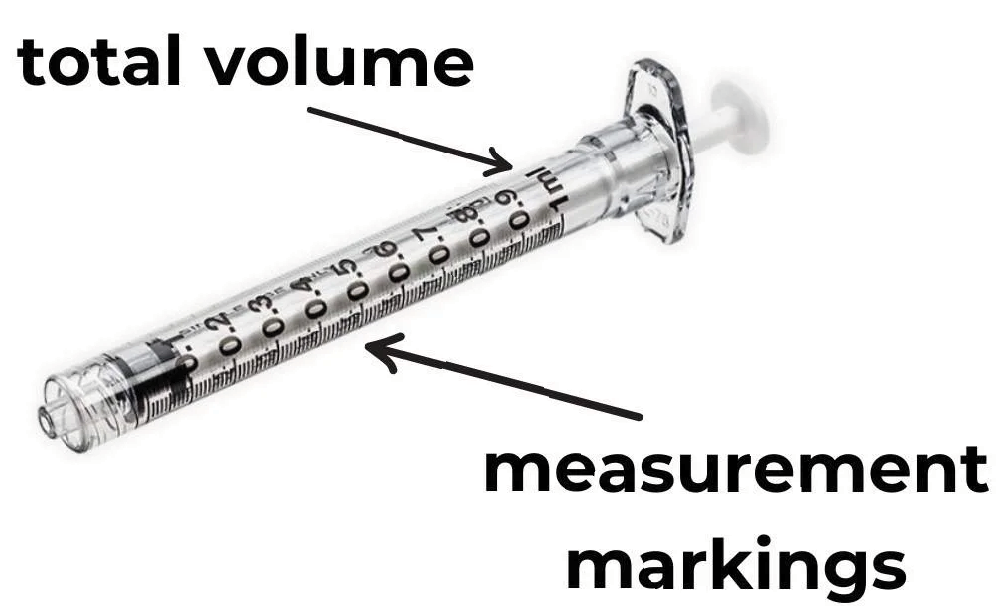
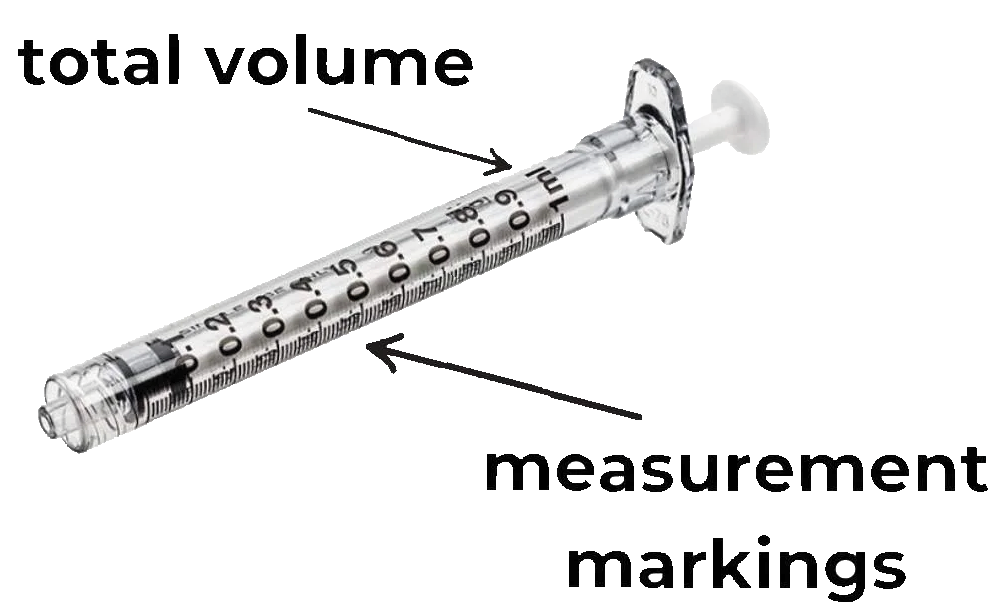
stylistic changes

diff --git a/posts/top-6-injection-mistakes/index.html b/posts/top-6-injection-mistakes/index.html
@@ -99,7 +99,7 @@
             </nav>
                 <div class="do-not-print">
                 <p>
-                [<a href="top-6-injection-mistakes-foldable.pdf" target="_blank">printable foldable PDF version</a>][<a href="top-6-injection-mistakes-web.pdf" target="_blank">web PDF version</a>]
+                <span class="center">[<a href="top-6-injection-mistakes-foldable.pdf" target="_blank">printable foldable PDF version</a>][<a href="top-6-injection-mistakes-web.pdf" target="_blank">web PDF version</a>]</span>
                 </p>
                 </div>
                 <hr />
@@ -185,7 +185,7 @@
                 <p><span class="large-font">In those settings, medication vials get used up very quickly and it makes sense to use a large needle to prioritize drawing speed. But for trans people who use one vial for a span of months or even years, we need to take better care of our vial stoppers than that! A busted stopper compromises your vial’s ability to stay sterile.</span></p>
                 </div>
                 <div class="row">
-                <p><span class="large-font right">Studies of how many punctures a vial can withstand have found that needles of 23G or smaller cause much less damage than larger needles.<a href="#fn2" class="footnote-ref" id="fnref2" role="doc-noteref"><sup>2</sup></a></span></p>
+                <p><span class="large-font right">Studies of how many punctures a vial can withstand have found that needles of 22G or smaller cause much less damage than larger needles.<a href="#fn2" class="footnote-ref" id="fnref2" role="doc-noteref"><sup>2</sup></a></span></p>
                 <div class="mark-host" style="--img-w: 15rem">
                 <p><img src="3-23g-needle-box.png" alt="Box of 23G x 1&quot; needles, with a large green checkmark superimposed in the corner." />
                 <img src="green-checkmark.svg" class="mark anchor-center anchor-small-top-right place-top-right place-small-top-right" style="--mark-w-small: 5rem; --anchor-x-small: -100%; --anchor-y-small: -30%" alt="Green checkmark" /></p>
@@ -217,7 +217,7 @@
                 <hr />
                 <h2 id="misreading-the-markings-on-your-syringe-barrel">Misreading the markings on your syringe barrel</h2>
                 <div class="row">
-                <p><span class="large-font center">Make sure to read the units on your syringe barrel carefully. The dose is measured from the top of the plunger.</span></p>
+                <p><span class="large-font center">Make sure to read the units on your syringe barrel carefully. The dose is measured from the <strong>top</strong> of the plunger.</span></p>
                 <div style="--img-w: 50%">
                 <p><img src="5-anatomy-of-a-syringe.png" class="invert-dark" alt="Picture of a 1mL Luer syringe with an arrow pointing at the the total volume inscription at the end of the barrel, labeled &quot;Total Volume&quot;, and a second arrow pointing at the measurement markings along the barrel." /></p>
                 </div>
@@ -231,7 +231,7 @@
                 <div class="row">
                 <p><span class="large-font center">For people who inject 0.1mL or less, insulin syringes come in 0.5mL and 0.3mL sizes and can be used for subcutaneous injection. It’s easier and more accurate to use these smaller syringes for small doses.</span></p>
                 <div style="--img-w: 50%">
-                <p><img src="5-insulin-units.png" class="unit-swap-dark no-dark-invert" alt="Picture of a 0.5 mL U-100 insulin syringe, with an arrow point where to locate the inscription showing the type of units on the syringe barrel, in this case U-100, indicating that each small marking is equivalent to 1 mL / 100 = 0.01 mL, and a second arrow pointing along the barrel at the 20 unit mark, indicating that pulling the plunger down to that point equals drawing 20 x 0.01 mL = 0.2 mL." /></p>
+                <p><img src="5-insulin-units.png" class="unit-swap-dark" alt="Picture of a 0.5 mL U-100 insulin syringe, with an arrow point where to locate the inscription showing the type of units on the syringe barrel, in this case U-100, indicating that each small marking is equivalent to 1 mL / 100 = 0.01 mL, and a second arrow pointing along the barrel at the 20 unit mark, indicating that pulling the plunger down to that point equals drawing 20 x 0.01 mL = 0.2 mL." /></p>
                 </div>
                 </div>
                 <div class="full">
@@ -247,7 +247,7 @@
                 <p><span class="large-font center">Detachable needles and syringes always have some space that the plunger can’t fully push liquid out of, called <strong>deadspace</strong>.</span></p>
                 </div>
                 <div class="full">
-                <p><img src="6-deadspace-diagram.png" class="invert-dark" style="border-radius: 10px;;width:75.0%" alt="Illustration showing four types of syringe and needle hubs: (1) Standard syringe with standard detachable needle, high amount of deadspace (typically 92 uL = 0.092 mL) (2) Modified syringe with standard detachable needle, rubber plunger with narrow tip extending into the hub to push liquid out of the deadspace, reduced amount of deadspace (typically 59 uL = 0.059 mL) (3) Standard syringe with low deadspace needle, the inside of the needle hub has a narrow point  which extends into the syringe hub to fill the deadspace (deadspace as low as 17 uL = 0.017 mL) (4) Low deadspace insulin syringe with fixed needle (deadspace typically 3 uL = 0.003 mL)." />
+                <p><img src="6-deadspace-diagram.png" style="border-radius: 10px;;width:75.0%" alt="Illustration showing four types of syringe and needle hubs: (1) Standard syringe with standard detachable needle, high amount of deadspace (typically 92 uL = 0.092 mL) (2) Modified syringe with standard detachable needle, rubber plunger with narrow tip extending into the hub to push liquid out of the deadspace, reduced amount of deadspace (typically 59 uL = 0.059 mL) (3) Standard syringe with low deadspace needle, the inside of the needle hub has a narrow point  which extends into the syringe hub to fill the deadspace (deadspace as low as 17 uL = 0.017 mL) (4) Low deadspace insulin syringe with fixed needle (deadspace typically 3 uL = 0.003 mL)." />
                 <span class="small-font center"><em>Credits: <a href="https://www.exchangesupplies.org/product/low_dead_space_briefing">exchangesupplies.org Low Dead Space Injecting Equipment: A Briefing</a></em></span></p>
                 </div>
                 <div class="full">

diff --git a/posts/top-6-injection-mistakes/index.css b/posts/top-6-injection-mistakes/index.css
@@ -128,10 +128,6 @@
 }
 
 @media (max-width: 52rem) {
-  /* .page {
-    grid-template-columns: 1fr;
-  } */
-
   .boba-cover img {
     width: 62%;
   }
@@ -146,10 +142,13 @@
   .large-font {
     font-size: 18pt;
   }
+
+  .small-font {
+    font-size: 9pt;
+  }
 }
 
 @media (prefers-color-scheme: dark) {
-  
   img:not(.invert-dark) {
     filter: none !important;
     mix-blend-mode: normal;
